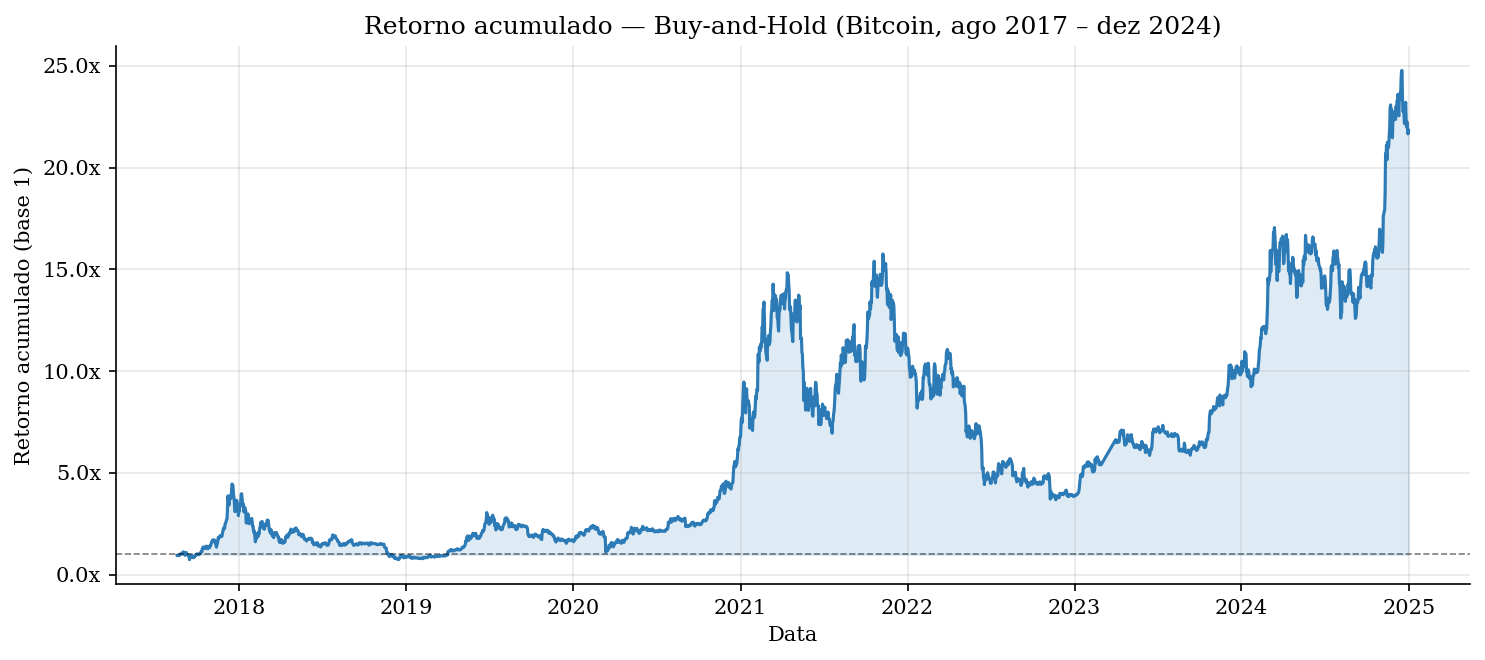
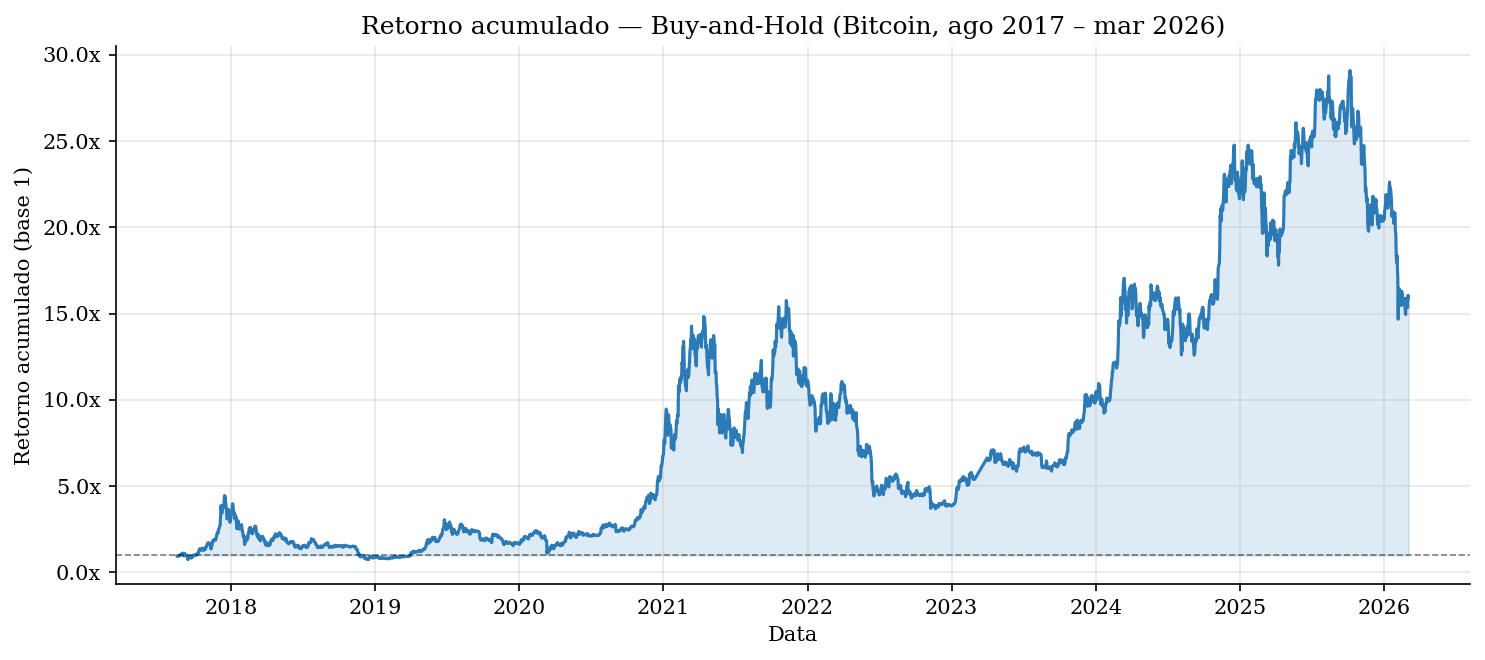
cap7: alinha Tab 7.1 e Fig 7.1 no cutoff canonico 2026-03-03 (btc_prices ia ate mai/2026 na tabela e dez/2024 na figura); Sharpe 0,59->0,56; corrige 'segundo pior' -> 'pior' retorno na 7.4

diff --git a/chapters/cap7_estrategias.tex b/chapters/cap7_estrategias.tex
@@ -59,15 +59,7 @@ retorno acumulado ao longo da amostra completa.
 \label{fig:cap7_bh_cumret}
 \end{figure}
 
-A estratégia compra e manutenção produziu retorno anualizado de 40{,}1\%
-no período de aproximadamente oito anos e meio, com volatilidade anualizada
-de 68{,}3\% e razão de Sharpe de 0{,}59. O \textit{max drawdown} de
-$-83{,}2\%$ evidencia o risco extremo de uma posição passiva em um ativo
-de elevada volatilidade estrutural, incluindo o ciclo de mercado baixista
-de 2022, quando o Bitcoin perdeu mais de 75\% do seu valor de pico. Essa
-combinação --- retorno atraente em longo prazo, porém com exposição a perdas
-severas em ciclos de contração --- motiva o interesse por estratégias
-condicionais que busquem reduzir o risco de cauda sem abdicar integralmente
+A estratégia compra e manutenção produziu retorno anualizado de 38,7\% no período de aproximadamente oito anos e meio, com volatilidade anualizada de 68,7\% e razão de Sharpe de 0,56. O \emph{max drawdown} de $-83{,}2\%$ evidencia o risco extremo de uma posição passiva em um ativo de elevada volatilidade estrutural, incluindo o ciclo de mercado baixista de 2022, quando o Bitcoin perdeu mais de 75\% do seu valor de pico. Essa combinação --- retorno atraente em longo prazo, porém com exposição a perdas severas em ciclos de contração --- motiva o interesse por estratégias condicionais que busquem reduzir o risco de cauda sem abdicar integralmente
 dos ganhos do ativo.
 
 É importante notar que o subperíodo amostral em que o sinal BVRP está disponível
@@ -317,7 +309,7 @@ desempenho ajustado ao risco positivo relevante. O regime de volatilidade média
 apresenta o Sharpe menos desfavorável (0{,}24, com retorno anualizado de 2{,}4\%
 sobre $N = 125$), enquanto os regimes de baixa e alta volatilidade exibem Sharpe
 negativo ($-0{,}64$ e $-0{,}21$, respectivamente). O regime de alta volatilidade,
-embora seja o de maior base amostral ($N = 252$), produz o segundo pior retorno
+embora seja o de maior base amostral ($N = 252$), produz o pior retorno
 ($-4{,}6\%$), sugerindo que os episódios em que o BVRP supera o limiar nesse
 estado tendem a ocorrer em transições turbulentas, nas quais o sinal é menos
 confiável e os retornos subsequentes mais ruidosos.

diff --git a/scripts/regenerate_cap7_figs.py b/scripts/regenerate_cap7_figs.py
@@ -61,7 +61,7 @@ def fmt_pct(ax, axis='y'):
 df_btc = pd.read_csv('data/btc_prices.csv', parse_dates=['date'])
 df_btc = df_btc.sort_values('date').reset_index(drop=True)
 df_btc['ret'] = df_btc['close'].pct_change()
-df_btc = df_btc[df_btc['date'] <= '2024-12-31'].dropna(subset=['ret'])
+df_btc = df_btc[df_btc['date'] <= '2026-03-03'].dropna(subset=['ret'])
 
 # Dataset BVRP (periodo consistente com cap5/cap6)
 df = pd.read_csv('data/vrp_with_regimes.csv', parse_dates=['date'])
@@ -107,7 +107,13 @@ ax.fill_between(df_btc['date'], 1, cum_bh, alpha=0.15, color=COLOR_BH)
 ax.axhline(1, color='black', lw=0.8, ls='--', alpha=0.5)
 ax.set_xlabel('Data')
 ax.set_ylabel('Retorno acumulado (base 1)')
-ax.set_title('Retorno acumulado — Buy-and-Hold (Bitcoin, ago 2017 – dez 2024)')
+_MESES_PT = ['jan', 'fev', 'mar', 'abr', 'mai', 'jun',
+             'jul', 'ago', 'set', 'out', 'nov', 'dez']
+def _mes_ano_pt(ts):
+    return f"{_MESES_PT[ts.month - 1]} {ts.year}"
+_ini = _mes_ano_pt(df_btc['date'].min())
+_fim = _mes_ano_pt(df_btc['date'].max())
+ax.set_title(f'Retorno acumulado — Buy-and-Hold (Bitcoin, {_ini} – {_fim})')
 ax.yaxis.set_major_formatter(mticker.FuncFormatter(lambda x, _: f'{x:.1f}x'))
 fig.tight_layout()
 fig.savefig('figs/cap7/fig_7_01_cum_returns_buy_hold.png', dpi=DPI, bbox_inches='tight')

diff --git a/scripts/regenerate_cap7.py b/scripts/regenerate_cap7.py
@@ -94,6 +94,11 @@ def _fmt(val, d=4):
 # ============================================================
 df_btc = pd.read_csv('data/btc_prices.csv', parse_dates=['date'])
 df_btc = df_btc.sort_values('date').reset_index(drop=True)
+# Trunca no cutoff canonico da dissertacao (mesma data de vrp_with_targets.csv).
+# btc_prices.csv se estende ate mai/2026; sem este corte a Tab 7.1 usaria ~2 meses
+# que nenhum outro capitulo enxerga.
+AMOSTRA_FIM_BTC = "2026-03-03"
+df_btc = df_btc[df_btc['date'] <= AMOSTRA_FIM_BTC].reset_index(drop=True)
 df_btc['ret'] = df_btc['close'].pct_change()
 df_btc = df_btc.dropna(subset=['ret'])
 

diff --git a/tables/tab7/tab7_1_perf_buy_hold.tex b/tables/tab7/tab7_1_perf_buy_hold.tex
@@ -2,10 +2,10 @@
 \toprule
 M\'etrica & Valor \\
 \midrule
-Retorno Anualizado & 0.4007 \\
-Volatilidade Anualizada & 0.6832 \\
-Sharpe Ratio & 0.5865 \\
-Sortino Ratio & 1.1327 \\
+Retorno Anualizado & 0.3871 \\
+Volatilidade Anualizada & 0.6873 \\
+Sharpe Ratio & 0.5633 \\
+Sortino Ratio & 1.1116 \\
 Max Drawdown & -0.8319 \\
 \bottomrule
 \end{tabular}
